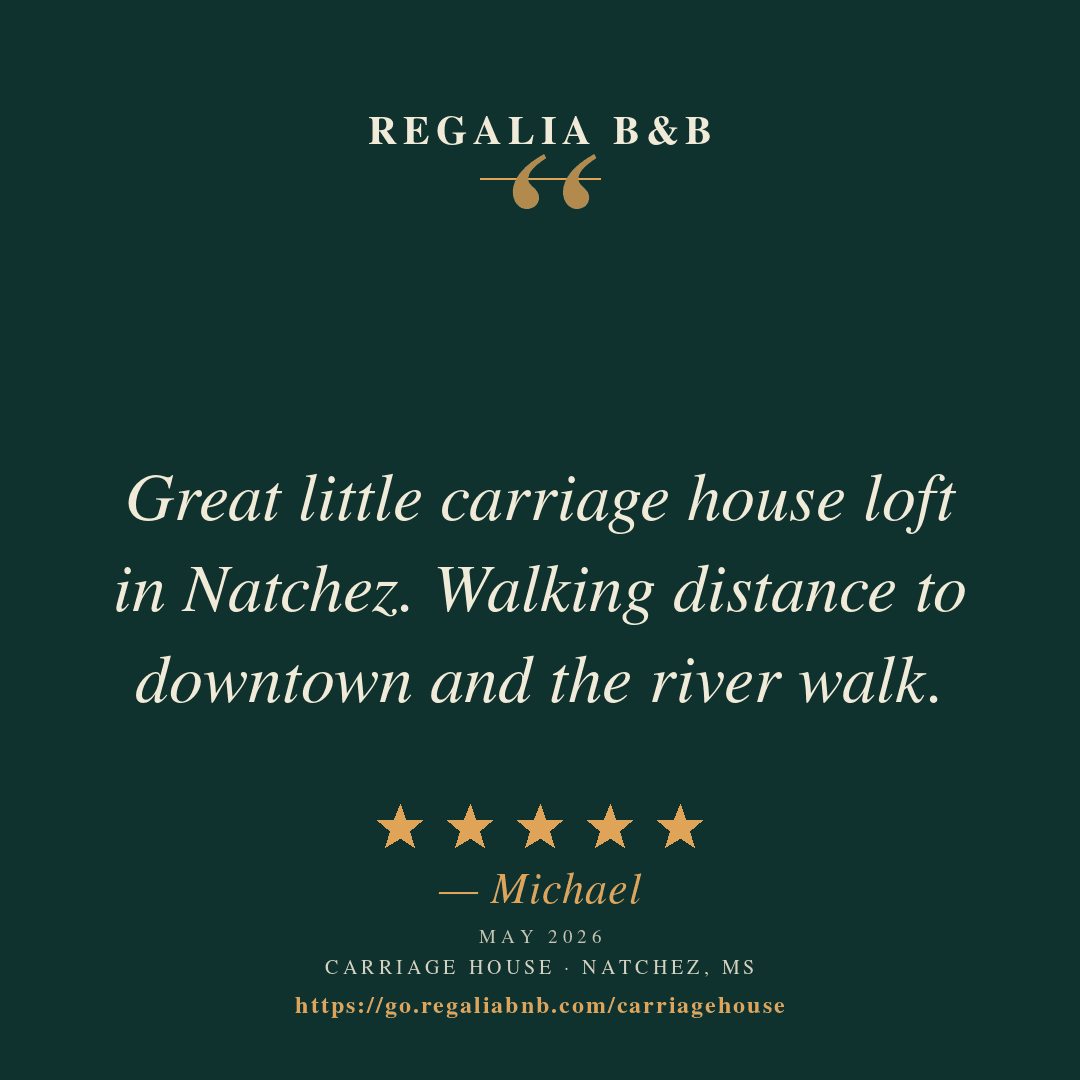
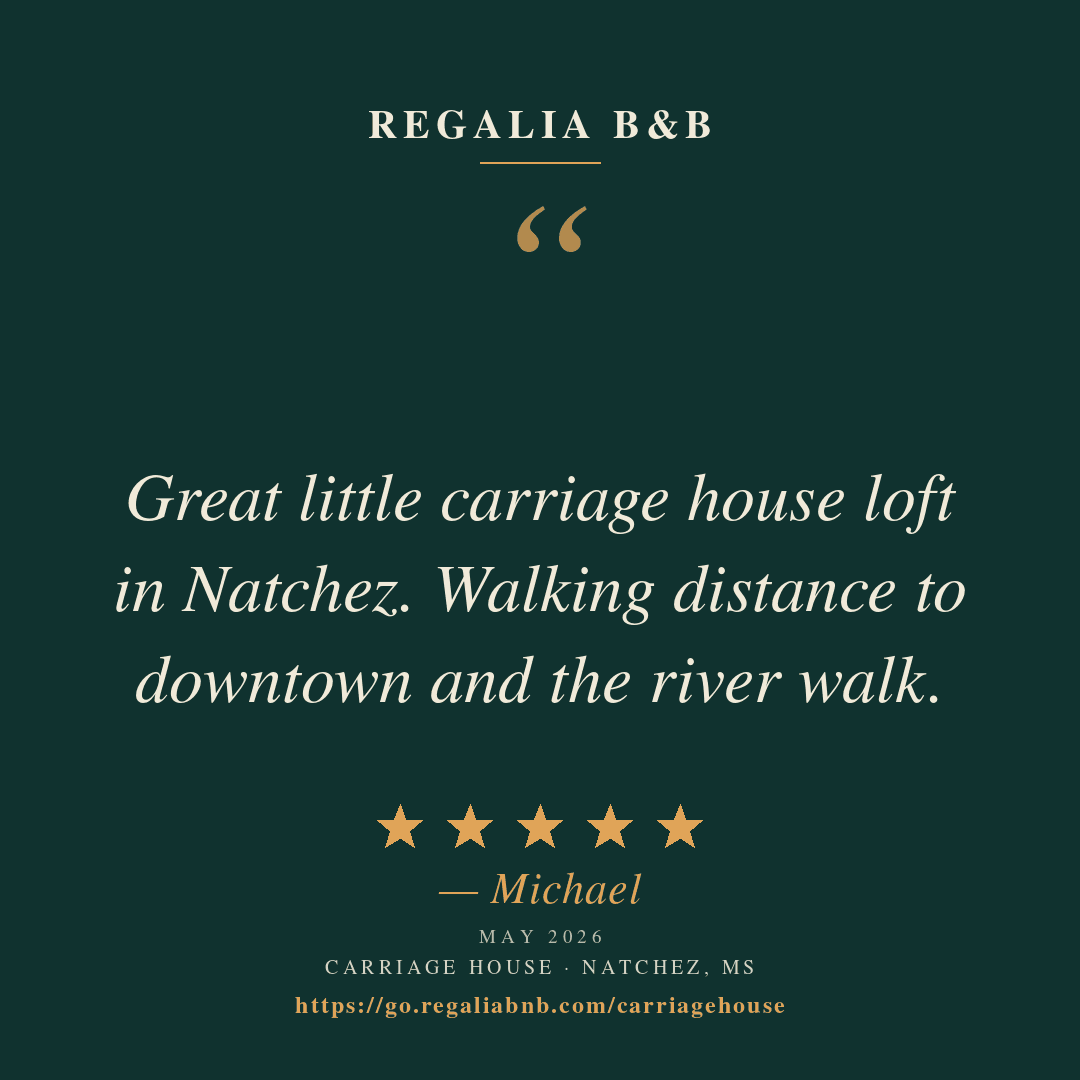
Fix big-quote layout overlap; regen test card

Changed region(s): [[0.3361, 0.0917, 0.55, 0.2444], [0.5806, 0.0917, 0.6722, 0.1528]]

diff --git a/tools/generate_review_card.py b/tools/generate_review_card.py
@@ -253,10 +253,10 @@ def layout_band(d, img, s, th, rng, name, quote, prop, date, url):
 def layout_bigquote(d, img, s, th, rng, name, quote, prop, date, url):
     cx = W // 2
     bg, ink, acc = s["bg"], s["ink"], s["acc"]
-    draw_tracked(d, (cx, 116), BRAND, fnt(th["head"], 40), ink, th["htrack"], "c")
-    rule(d, cx - 60, cx + 60, 178, acc, 2)
-    d.text((cx - d.textlength("“", font=fnt(th["quote"], 240)) / 2, 150),
-           "“", font=fnt(th["quote"], 240), fill=blend(acc, bg, .22))
+    draw_tracked(d, (cx, 110), BRAND, fnt(th["head"], 40), ink, th["htrack"], "c")
+    rule(d, cx - 60, cx + 60, 162, acc, 2)
+    bigf = fnt(th["quote"], 200)
+    d.text((cx - d.textlength("“", font=bigf) / 2, 202), "“", font=bigf, fill=blend(acc, bg, .22))
     qf, lines, lh = fit_quote(d, quote, th["quote"], W - 220, 360, start=70)
     y = 430 + (360 - len(lines) * lh) // 2
     for ln in lines: